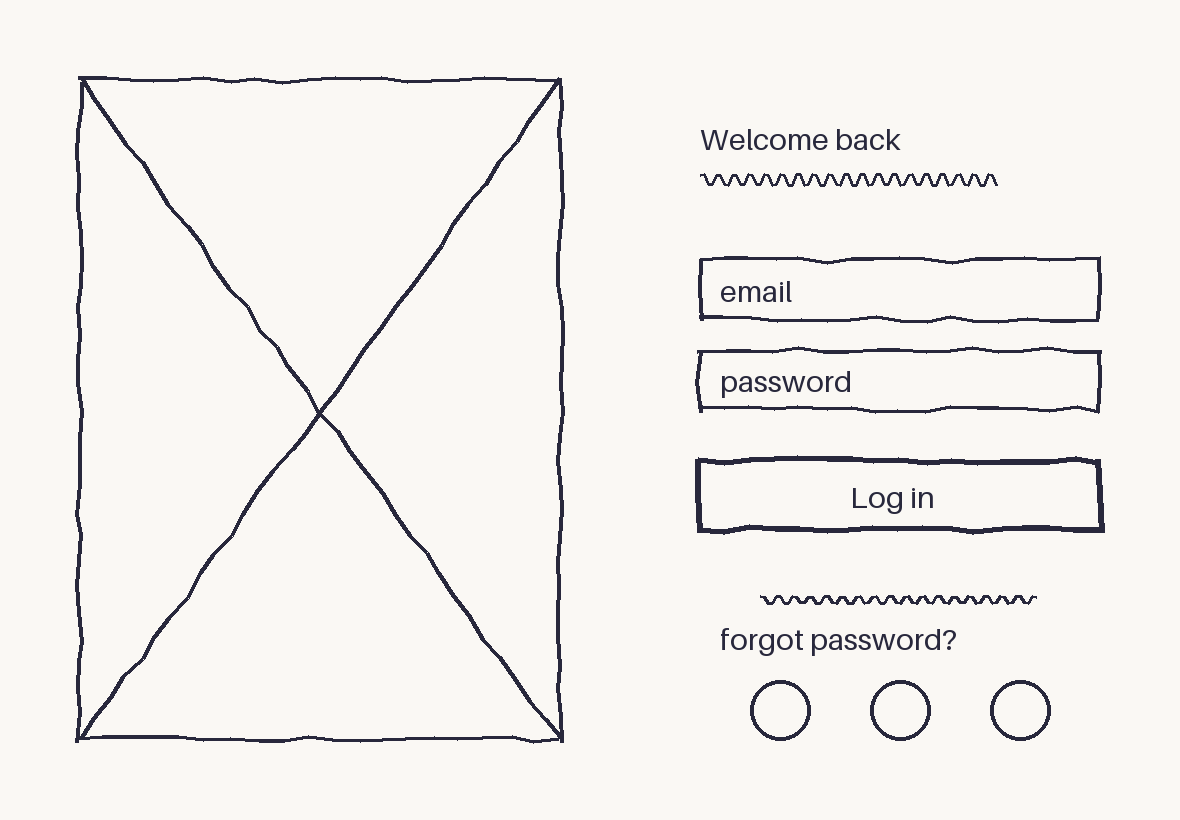
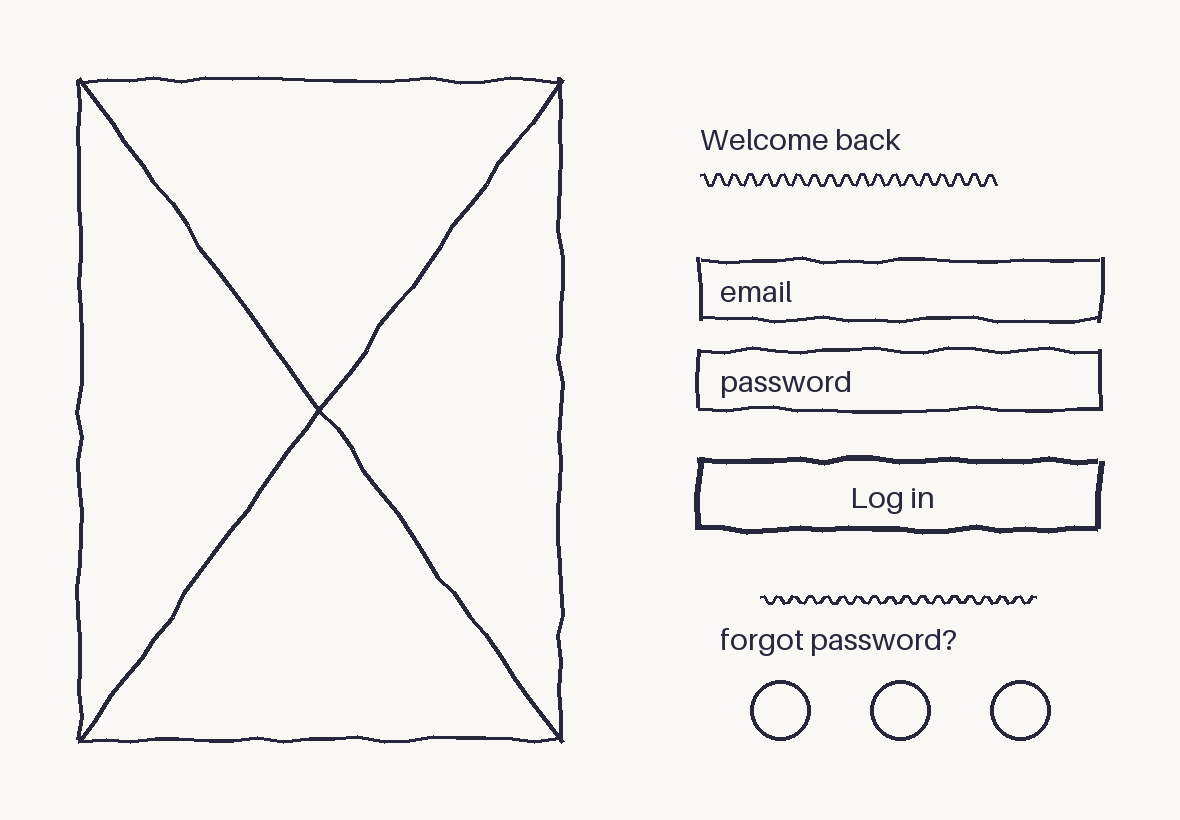
Harden the judge and add three more sample sketches
On one run the judge replied that the screenshot was missing even though
Ollama delivered both images (verified: two images in one message are
seen in every layout). The judge messages now label each image inline,
and a reply that is neither APPROVED nor a bullet list is retried once,
then replaced by the automated layout checks.

make_sketch.py now generates settings, product_grid and chat sketches
alongside login, each with a dictated description, as a seed eval set.

diff --git a/server/samples/make_sketch.py b/server/samples/make_sketch.py
@@ -1,6 +1,9 @@
-"""Generate a fake hand-drawn login-screen sketch for testing. Needs Pillow.
+"""Generate fake hand-drawn UI sketches for testing. Needs Pillow.
 
-    python3 samples/make_sketch.py samples/login.png
+    python3 samples/make_sketch.py            # writes samples/<name>.png for every sketch
+    python3 samples/make_sketch.py login      # just one
+
+Each sketch has a one-line description in DESCRIPTIONS, the text a user might dictate.
 """
 
 import random
@@ -8,9 +11,9 @@ import sys
 
 from PIL import Image, ImageDraw
 
-random.seed(7)
 W, H = 1180, 820
 INK = (40, 40, 60)
+PAPER = (250, 248, 244)
 
 
 def wobble(p, amt=3):
@@ -28,35 +31,114 @@ def rect(d, x0, y0, x1, y1, width=4):
     line(d, (x1, y1), (x0, y1), width); line(d, (x0, y1), (x0, y0), width)
 
 
+def image_box(d, x0, y0, x1, y1):
+    rect(d, x0, y0, x1, y1)
+    line(d, (x0, y0), (x1, y1)); line(d, (x1, y0), (x0, y1))
+
+
 def squiggle(d, x, y, length, amp=5):
     pts = [(x + i, y + amp * (1 if (i // 8) % 2 else -1) + random.uniform(-1, 1)) for i in range(0, length, 4)]
     d.line(pts, fill=INK, width=3)
 
 
-def scribble_text(d, x, y, text):
-    d.text((x, y), text, fill=INK, font_size=30)
+def text(d, x, y, s, size=30):
+    d.text((x, y), s, fill=INK, font_size=size)
 
 
-def main(out: str) -> None:
-    img = Image.new("RGB", (W, H), (250, 248, 244))
-    d = ImageDraw.Draw(img)
-    # left: hero image box with an X
-    rect(d, 80, 80, 560, 740)
-    line(d, (80, 80), (560, 740)); line(d, (560, 80), (80, 740))
-    # right: login form
-    scribble_text(d, 700, 120, "Welcome back")
+def circle(d, cx, cy, r, width=4):
+    d.ellipse((cx - r, cy - r, cx + r, cy + r), outline=INK, width=width)
+
+
+def toggle(d, x, y):
+    d.rounded_rectangle((x, y, x + 70, y + 36), radius=18, outline=INK, width=4)
+    circle(d, x + 52, y + 18, 13)
+
+
+def login(d):
+    image_box(d, 80, 80, 560, 740)
+    text(d, 700, 120, "Welcome back")
     squiggle(d, 700, 180, 300)
-    rect(d, 700, 260, 1100, 320); scribble_text(d, 720, 272, "email")
-    rect(d, 700, 350, 1100, 410); scribble_text(d, 720, 362, "password")
-    rect(d, 700, 460, 1100, 530, width=6); scribble_text(d, 850, 478, "Log in")
+    rect(d, 700, 260, 1100, 320); text(d, 720, 272, "email")
+    rect(d, 700, 350, 1100, 410); text(d, 720, 362, "password")
+    rect(d, 700, 460, 1100, 530, width=6); text(d, 850, 478, "Log in")
     squiggle(d, 760, 600, 280, amp=3)
-    scribble_text(d, 720, 620, "forgot password?")
-    # social buttons row: three circles
+    text(d, 720, 620, "forgot password?")
     for cx in (780, 900, 1020):
-        d.ellipse((cx - 30, 680, cx + 30, 740), outline=INK, width=4)
+        circle(d, cx, 710, 30)
+
+
+def settings(d):
+    # nav bar with back chevron and title
+    line(d, (60, 40), (1120, 40))
+    line(d, (60, 120), (1120, 120))
+    line(d, (100, 80), (80, 60)); line(d, (80, 60), (100, 40))
+    text(d, 480, 60, "Settings", size=34)
+    # section label
+    text(d, 90, 160, "ACCOUNT", size=22)
+    # rows: avatar + name, then three toggle rows, then a red-ish "sign out"
+    circle(d, 130, 250, 36)
+    text(d, 200, 225, "Alex Rivera", size=28); squiggle(d, 200, 275, 260, amp=3)
+    line(d, (160, 300), (1100, 300), width=2)
+    y = 340
+    for label in ("Notifications", "Dark mode", "Face ID"):
+        text(d, 90, y, label, size=28)
+        toggle(d, 1000, y - 2)
+        line(d, (90, y + 60), (1100, y + 60), width=2)
+        y += 90
+    text(d, 90, 640, "PRIVACY", size=22)
+    text(d, 90, 690, "Location", size=28); text(d, 940, 690, "Always  >", size=28)
+    line(d, (90, 750), (1100, 750), width=2)
+
+
+def product_grid(d):
+    # search bar, then 2x3 grid of product cards: image, title squiggle, price
+    rect(d, 60, 40, 1000, 100); text(d, 90, 52, "search", size=26)
+    circle(d, 1080, 70, 26)
+    x0s, y0s = (60, 440, 820), (150, 500)
+    prices = ("$24", "$89", "$12", "$45", "$130", "$8")
+    i = 0
+    for y0 in y0s:
+        for x0 in x0s:
+            image_box(d, x0, y0, x0 + 300, y0 + 200)
+            squiggle(d, x0 + 10, y0 + 240, 220, amp=3)
+            text(d, x0 + 10, y0 + 262, prices[i], size=26)
+            circle(d, x0 + 270, y0 + 275, 18)
+            i += 1
+
+
+def chat(d):
+    # nav bar: avatar + name; bubbles alternating; input bar with send circle
+    line(d, (60, 110), (1120, 110))
+    circle(d, 120, 60, 32); text(d, 180, 40, "Sam", size=30)
+    bubbles = [(80, 150, 520, 220), (640, 250, 1100, 320), (80, 350, 460, 400),
+               (560, 430, 1100, 540), (80, 570, 600, 640)]
+    for (x0, y0, x1, y1) in bubbles:
+        d.rounded_rectangle((x0, y0, x1, y1), radius=28, outline=INK, width=4)
+        squiggle(d, x0 + 24, (y0 + y1) // 2, x1 - x0 - 48, amp=3)
+    rect(d, 60, 700, 1020, 780); text(d, 90, 718, "message", size=26)
+    circle(d, 1080, 740, 34)
+    line(d, (1066, 740), (1096, 740), width=3); line(d, (1084, 728), (1096, 740), width=3); line(d, (1084, 752), (1096, 740), width=3)
+
+
+SKETCHES = {"login": login, "settings": settings, "product_grid": product_grid, "chat": chat}
+
+DESCRIPTIONS = {
+    "login": "login screen. big product photo on the left, form on the right, three social sign-in buttons at the bottom",
+    "settings": "settings screen for a fitness app. account section with profile row and toggles, then a privacy section",
+    "product_grid": "shop screen for a plant store. search bar on top, grid of products with photo, name, price and a heart to favorite",
+    "chat": "chat conversation with a friend named Sam, message bubbles, input bar at the bottom with a send button",
+}
+
+
+def make(name: str, out: str) -> None:
+    random.seed(hash(name) % 1000)
+    img = Image.new("RGB", (W, H), PAPER)
+    SKETCHES[name](ImageDraw.Draw(img))
     img.save(out)
     print(f"wrote {out}")
 
 
 if __name__ == "__main__":
-    main(sys.argv[1] if len(sys.argv) > 1 else "samples/login.png")
+    names = sys.argv[1:] or list(SKETCHES)
+    for n in names:
+        make(n, f"samples/{n}.png")

diff --git a/server/app/harness.py b/server/app/harness.py
@@ -39,6 +39,11 @@ async def _ask_for_html(gemma: Gemma, messages: list[dict[str, Any]], model: str
     return reply, html
 
 
+def _looks_like_problems(text: str) -> bool:
+    """A judge reply we can act on: at least one bullet line."""
+    return any(line.strip().startswith(("-", "*", "•")) for line in text.splitlines())
+
+
 def _notes(text: str, html: str | None) -> str:
     """Whatever the model said before the code block, trimmed."""
     if html and html in text:
@@ -105,10 +110,21 @@ async def run(
         checks = (prompts.CHECKS_HEADER + checks_text + "\n") if checks_text else prompts.CHECKS_CLEAN
         judge = prompts.JUDGE.format(width=config.VIEWPORT_W, height=config.VIEWPORT_H,
                                      description=description, checks=checks)
-        verdict = await gemma.chat(
-            [_system(), {"role": "user", "content": [text_part(judge), sketch_img, image_part(png, "image/png")]}],
-            model=model, max_tokens=400, temperature=0.1,
-        )
+        # Label the images inline: without labels the model occasionally claims the
+        # second image is missing even though it was delivered.
+        judge_msgs = [_system(), {"role": "user", "content": [
+            text_part("Image 1, the hand-drawn sketch:"), sketch_img,
+            text_part("Image 2, the rendered mockup screenshot:"), image_part(png, "image/png"),
+            text_part(judge),
+        ]}]
+        verdict = await gemma.chat(judge_msgs, model=model, max_tokens=400, temperature=0.1)
+        if not is_approved(verdict.text) and not _looks_like_problems(verdict.text):
+            # Not a verdict (e.g. "please provide the screenshot"). One retry, then fall back.
+            verdict = await gemma.chat(judge_msgs, model=model, max_tokens=400, temperature=0.3)
+            if not is_approved(verdict.text) and not _looks_like_problems(verdict.text):
+                yield {"type": "status", "message": "judge gave no verdict, using automated checks only"}
+                verdict.text = ("APPROVED" if not checks_text
+                                else "\n".join(f"- {l.lstrip('- ')}" for l in checks_text.splitlines()))
         if is_approved(verdict.text):
             approved_at = n
             scored.append((0, n, html))

diff --git a/server/app/prompts.py b/server/app/prompts.py
@@ -21,7 +21,7 @@ First, in 3-6 short bullet points, list the UI elements you see and their arrang
 Then output the complete HTML mockup in a ```html block."""
 
 # Step 1 of the loop: a short verdict, no HTML. Cheap (~100 output tokens).
-JUDGE = """The first image is the original hand-drawn sketch. The second image is a screenshot of the current mockup rendered at {width}x{height}.
+JUDGE = """Image 1 above is the original hand-drawn sketch. Image 2 above is a screenshot of the current mockup rendered at {width}x{height}. Both are attached.
 
 Designer's notes: {description}
 {checks}
